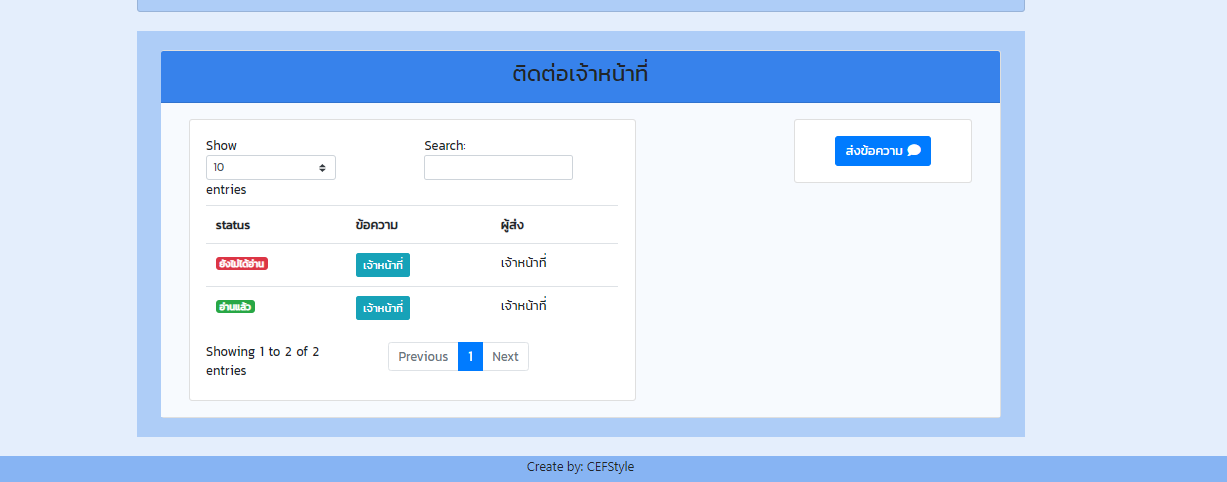
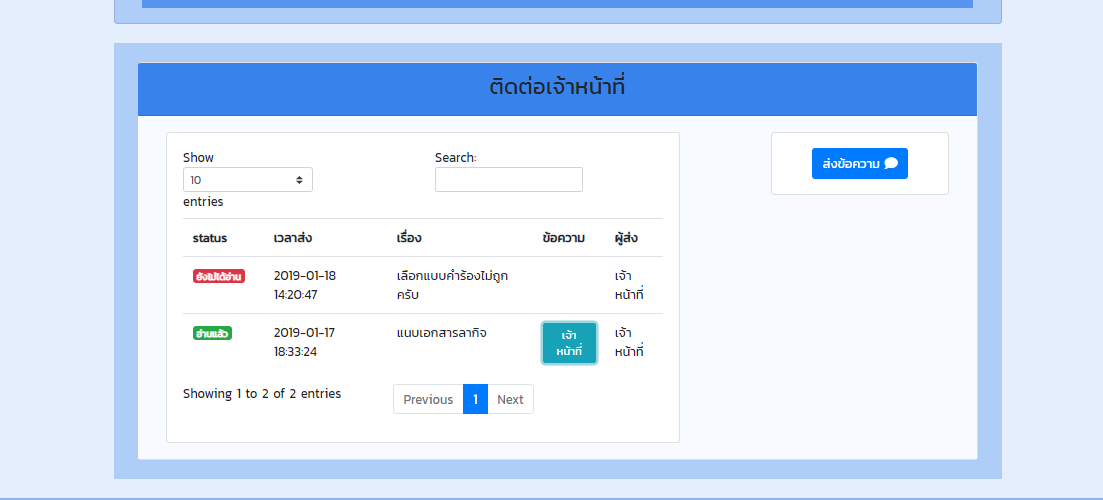
koa

diff --git a/font/user/main.php b/font/user/main.php
@@ -527,67 +527,7 @@ $sub = '<label for="sub">วิชา</label>
                                                                 <td>2019-01-18 14:20:47</td>
                                                                 <td>เลือกแบบคำร้องไม่ถูกครับ</td>
                                                                 <td>
-                                                                    <!-- Small modal -->
-                                                                    <button type="button" class="btn btn-info btn-sm"
-                                                                        data-toggle="modal" data-target="#confirm">เจ้าหน้าที่</button>
 
-                                                                    <div id="confirm" class="modal fade bd-example-modal-sm"
-                                                                        tabindex="-1" role="dialog" aria-labelledby="mySmallModalLabel"
-                                                                        aria-hidden="true">
-                                                                        <div class="modal-dialog modal-sm">
-                                                                            <div class="modal-content ">
-                                                                                <div class="modal-header">
-                                                                                    <h5 class="modal-title" id="exampleModalLabel">เจ้าหน้าที่</h5>
-                                                                                    <button type="button" class="close"
-                                                                                        data-dismiss="modal" aria-label="Close">
-                                                                                        <span aria-hidden="true">&times;</span>
-                                                                                    </button>
-                                                                                </div>
-                                                                                <div class="modal-body text-center">
-                                                                                    <!-- card user -->
-                                                                                    <div class="card-body">
-                                                                                        <!-- User -->
-                                                                                        <div class="row">
-                                                                                            <div class="col-lg-4">
-                                                                                                <p>เรื่อง : </p>
-                                                                                            </div>
-                                                                                            <div class="col-lg-8">
-                                                                                                <p>ข้าวร้านไหนอร่อย</p>
-                                                                                            </div>
-                                                                                        </div>
-                                                                                        <div class="row">
-                                                                                            <div class="col-lg-4">
-                                                                                                <p>ข้อความ : </p>
-                                                                                            </div>
-                                                                                            <div class="col-lg-8">
-                                                                                                <p>พี่ว่าร้านข้าวใน ม.
-                                                                                                    เราร้านไหนอร่อยที่สุดครับช่วยแนะนำที</p>
-                                                                                            </div>
-                                                                                        </div>
-                                                                                        <!-- User -->
-                                                                                    </div>
-                                                                                    <!-- card user -->
-                                                                                    <hr>
-                                                                                    <!-- card staff -->
-                                                                                    <div class="card-body">
-                                                                                        <!-- staff -->
-                                                                                        <div class="row">
-                                                                                            <div class="col-lg-4">
-                                                                                                <p>เจ้าหน้าที่ : </p>
-                                                                                            </div>
-                                                                                            <div class="col-lg-8">
-                                                                                                <p>พี่ว่าร้านลงสวนอ้อยก็ดีนะ
-                                                                                                    แต่นานไปหน่อย</p>
-                                                                                            </div>
-                                                                                        </div>
-                                                                                        <!-- stafff -->
-                                                                                    </div>
-                                                                                    <!-- card staff -->
-
-                                                                                </div>
-                                                                            </div>
-                                                                        </div>
-                                                                        <!-- Small modal -->
                                                                 </td>
                                                                 <td> เจ้าหน้าที่ </td>
                                                             </tr>
@@ -622,7 +562,7 @@ $sub = '<label for="sub">วิชา</label>
                                                                                                 <p>เรื่อง : </p>
                                                                                             </div>
                                                                                             <div class="col-lg-8">
-                                                                                                <p>ข้าวร้านไหนอร่อย</p>
+                                                                                                <p>แนบเอกสารลากิจ</p>
                                                                                             </div>
                                                                                         </div>
                                                                                         <div class="row">
@@ -630,8 +570,8 @@ $sub = '<label for="sub">วิชา</label>
                                                                                                 <p>ข้อความ : </p>
                                                                                             </div>
                                                                                             <div class="col-lg-8">
-                                                                                                <p>พี่ว่าร้านข้าวใน ม.
-                                                                                                    เราร้านไหนอร่อยที่สุดครับช่วยแนะนำที</p>
+                                                                                                <p>ผมต้องแนบเอกสารอะไรบ้างครับในการขอลา
+                                                                                                    เนื่องจากไปธุระกับครบครับ</p>
                                                                                             </div>
                                                                                         </div>
                                                                                         <!-- User -->
@@ -646,8 +586,8 @@ $sub = '<label for="sub">วิชา</label>
                                                                                                 <p>เจ้าหน้าที่ : </p>
                                                                                             </div>
                                                                                             <div class="col-lg-8">
-                                                                                                <p>พี่ว่าร้านลงสวนอ้อยก็ดีนะ
-                                                                                                    แต่นานไปหน่อย</p>
+                                                                                                <p>พอจะมีเอกสาร
+                                                                                                    หรือภาพถ่ายพอเป็นหลักฐานไหมค่ะ</p>
                                                                                             </div>
                                                                                         </div>
                                                                                         <!-- stafff -->
